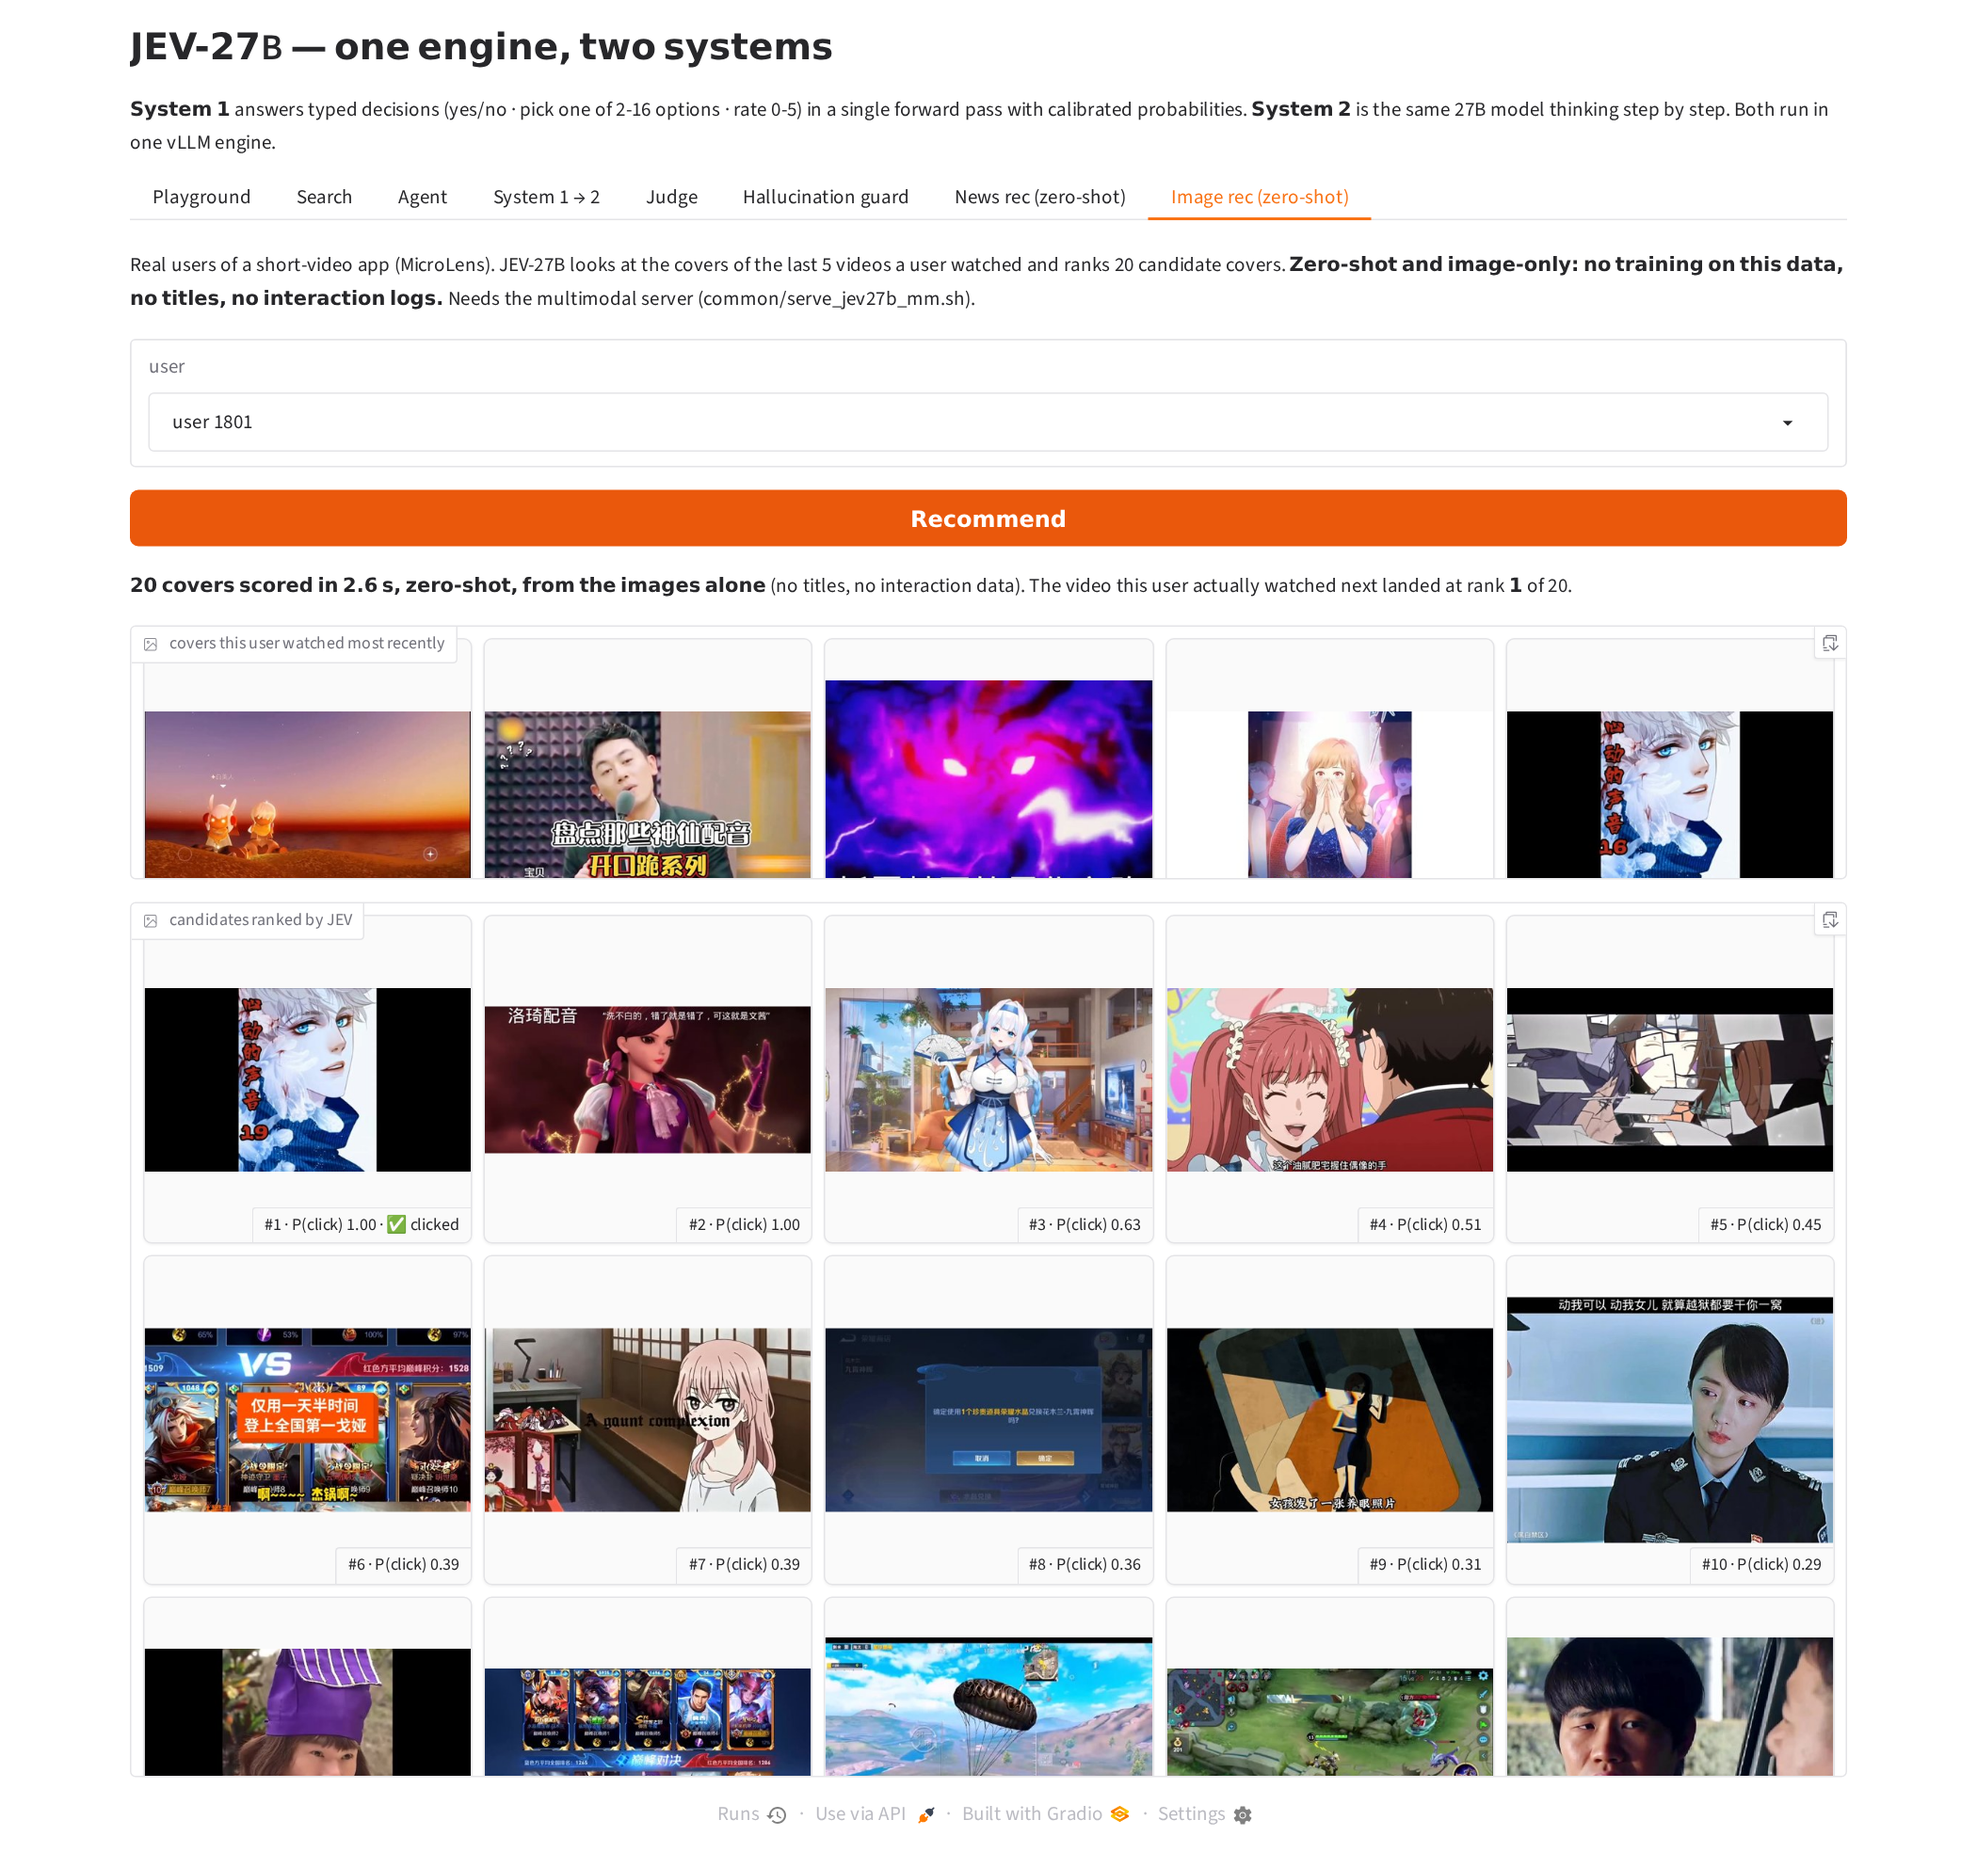
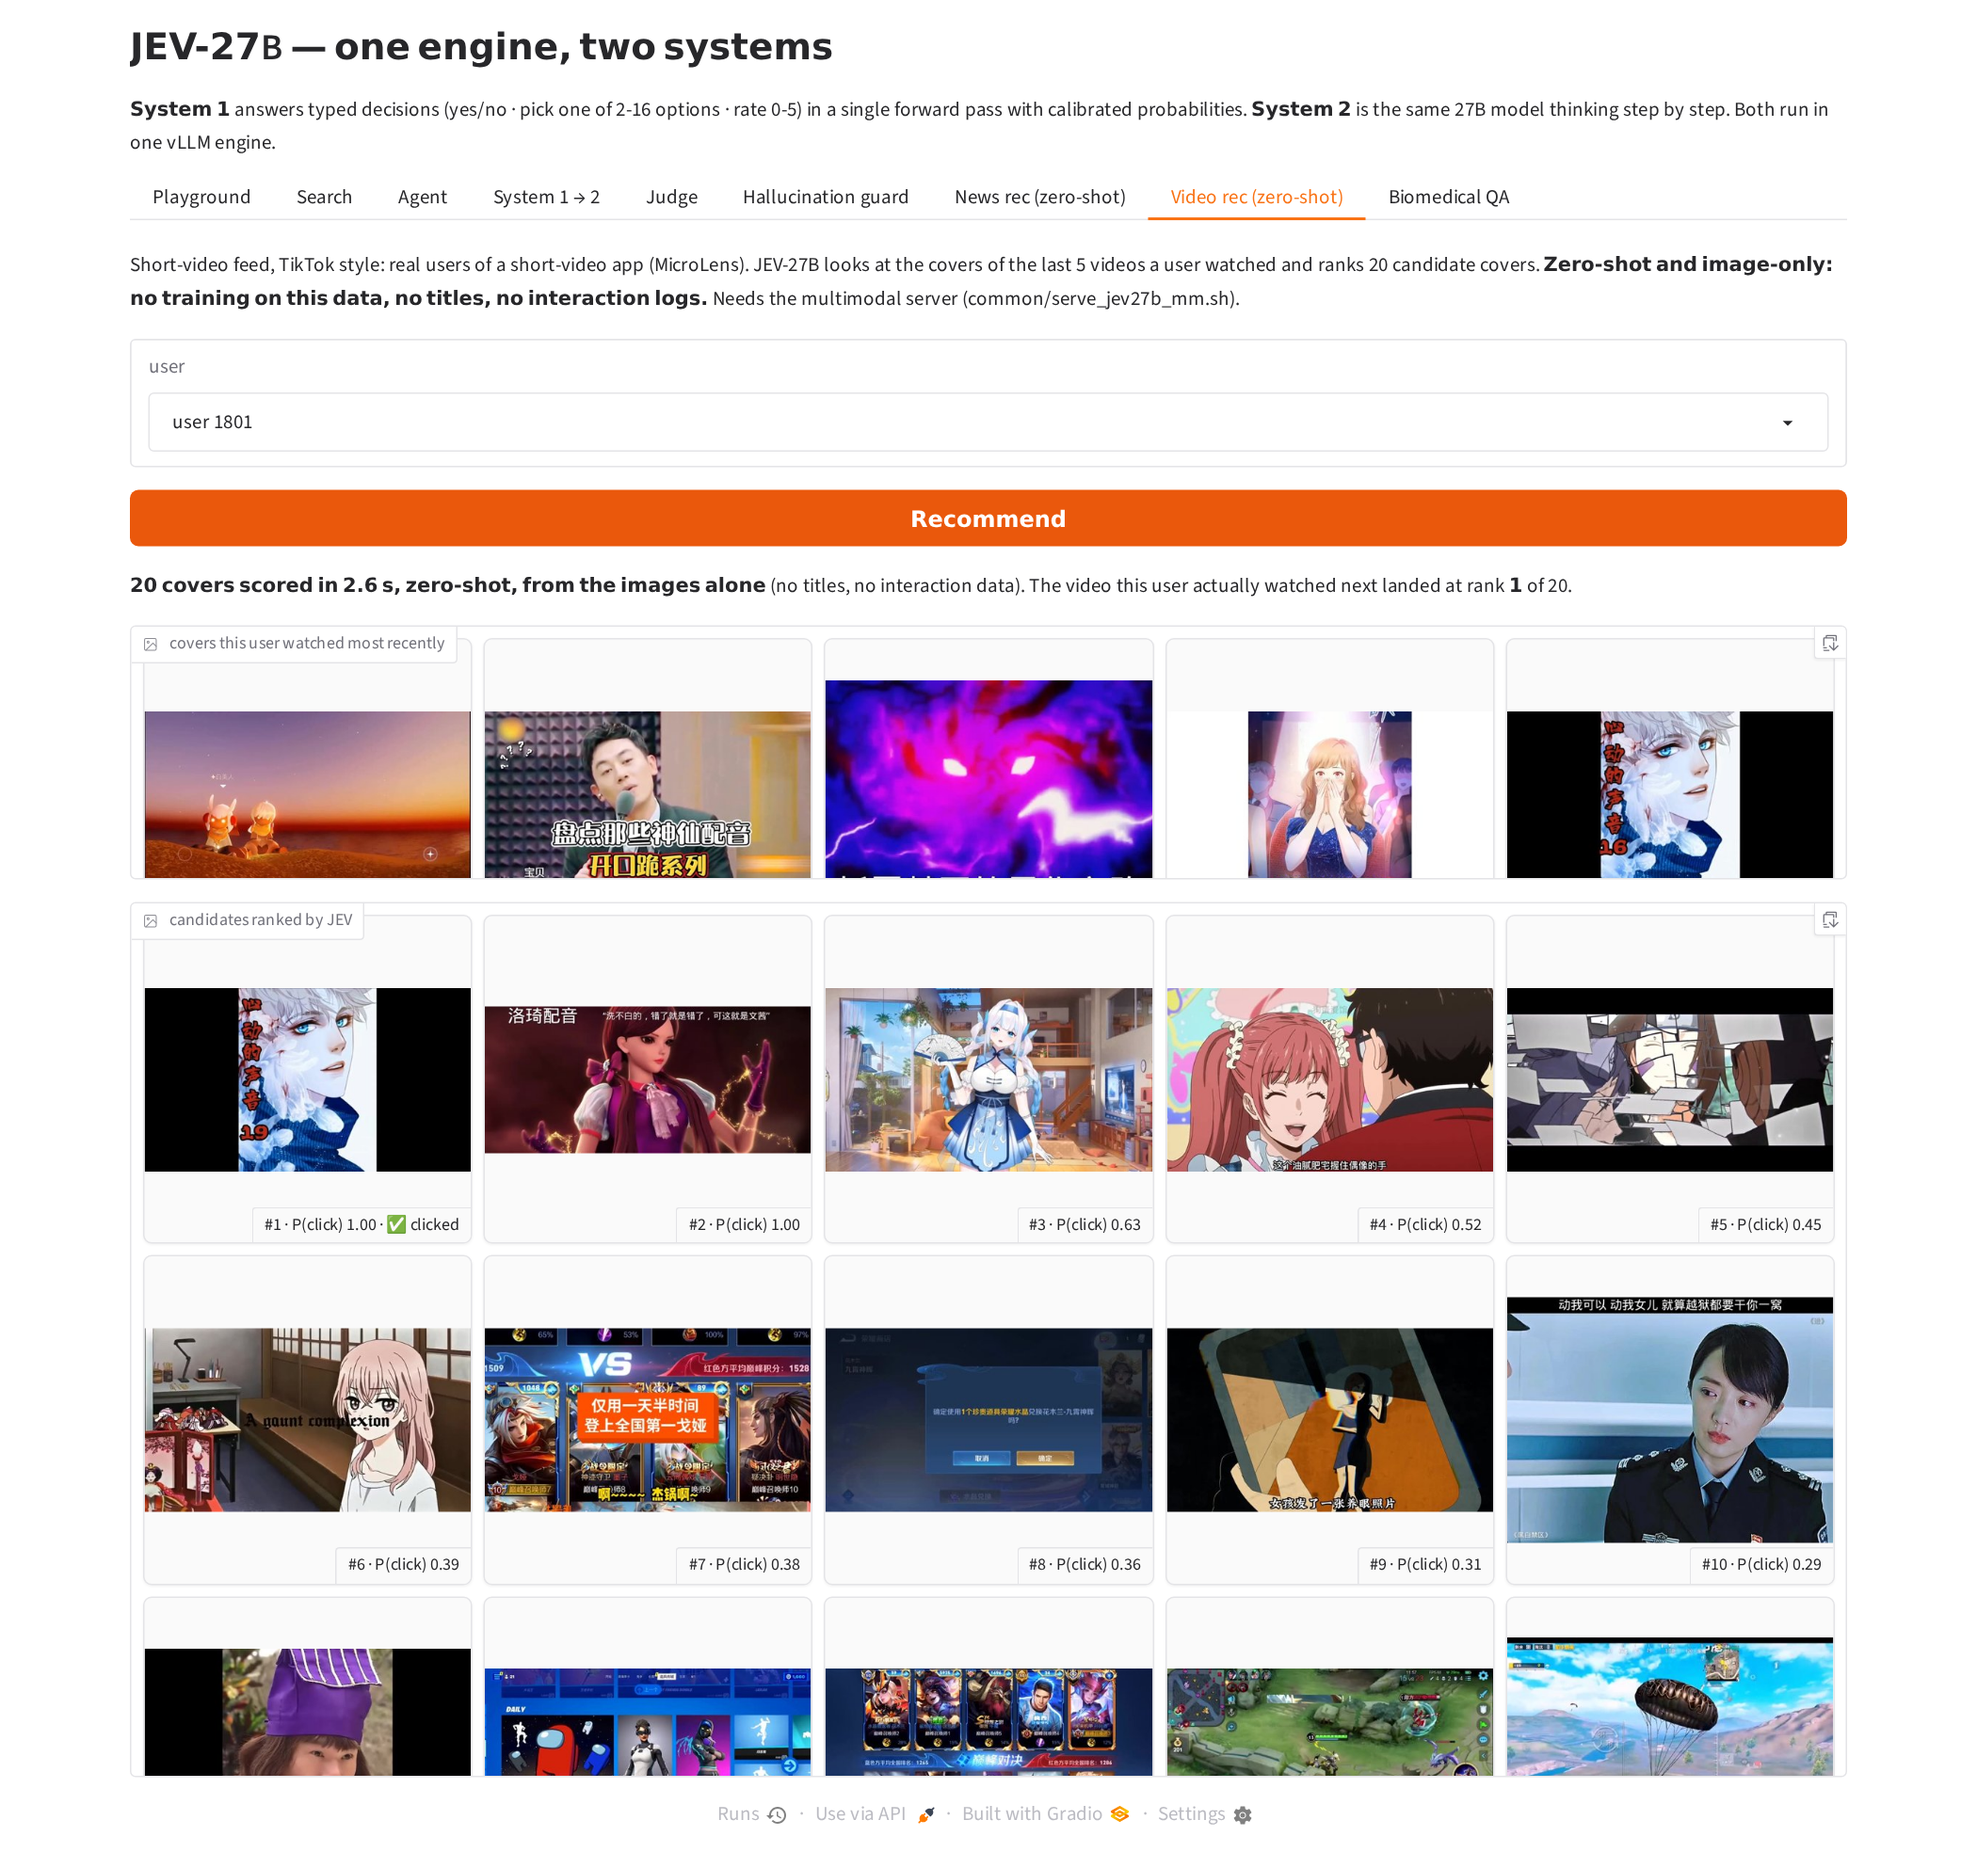
Rename demo 07 to zero-shot short-video recommendation (TikTok-style feeds)

diff --git a/app/app.py b/app/app.py
@@ -26,7 +26,7 @@ s12 = load("03-system1-to-system2", "demo")
 judge_mod = load("04-response-judge", "demo")
 guard = load("05-hallucination-guard", "demo")
 newsrec = load("06-news-recommendation", "demo")
-imgrec = load("07-image-recommendation", "demo")
+imgrec = load("07-video-recommendation", "demo")
 bioqa = load("08-biomedical-qa", "demo")
 
 INTRO = """# JEV-27B — one engine, two systems
@@ -159,9 +159,9 @@ def recommend(choice):
 
 
 
-# ---------------------------------------------------------------- zero-shot image recommendation
+# ---------------------------------------------------------------- zero-shot short-video recommendation
 def image_users():
-    res = pd.DataFrame(json.load(open(os.path.join(ROOT, "07-image-recommendation", "results.json"))))
+    res = pd.DataFrame(json.load(open(os.path.join(ROOT, "07-video-recommendation", "results.json"))))
     best = {u: int((g.jev_images > g[g.y == 1].jev_images.iloc[0]).sum()) + 1 for u, g in res.groupby("user")}
     return [f"user {u}" for u, r in sorted(best.items(), key=lambda kv: (kv[1], kv[0]))[:12]]
 
@@ -300,8 +300,8 @@ with gr.Blocks(title="JEV-27B demo") as demo:
             nt = gr.Dataframe(wrap=True, column_widths=["5%", "10%", "9%", "22%", "54%"])
         b.click(recommend, nc, [nh, nt, ninfo])
         demo.load(lambda: gr.update(choices=list(mind()["choices"]), value=list(mind()["choices"])[0]), None, nc)
-    with gr.Tab("Image rec (zero-shot)"):
-        gr.Markdown("Real users of a short-video app (MicroLens). JEV-27B looks at the covers of the last 5 videos a user watched and ranks "
+    with gr.Tab("Video rec (zero-shot)"):
+        gr.Markdown("Short-video feed, TikTok style: real users of a short-video app (MicroLens). JEV-27B looks at the covers of the last 5 videos a user watched and ranks "
                     "20 candidate covers. **Zero-shot and image-only: no training on this data, no titles, no interaction logs.** "
                     "Needs the multimodal server (common/serve_jev27b_mm.sh).")
         ic = gr.Dropdown(label="user", choices=[], allow_custom_value=False)

diff --git a/07-video-recommendation/demo.py b/07-video-recommendation/demo.py
@@ -1,4 +1,4 @@
-"""Demo 07 — zero-shot image recommendation: JEV-27B looks at video covers.
+"""Demo 07 — zero-shot short-video recommendation (TikTok-style feeds): JEV-27B looks at the video covers.
 
 JEV-27B has never been trained on MicroLens, on recommendation, or on any click data. System 1 looks at the covers of the
 last 5 videos a user watched and at one candidate cover, and returns P(this user clicks it) in one forward pass.
@@ -187,7 +187,7 @@ def summary():
     ax.text(2.5, 0.765, "zero-shot: no interaction data", ha="center", fontsize=9, color="#495057")
     ax.text(6, 0.765, "reference", ha="center", fontsize=9, color="#495057")
     ax.set_ylim(0.45, 0.79); ax.set_ylabel("AUC (per user)"); ax.tick_params(axis="x", labelsize=8)
-    ax.set_title("Zero-shot image recommendation: JEV-27B looking at covers matches collaborative filtering")
+    ax.set_title("Zero-shot short-video recommendation: JEV-27B looking at covers matches collaborative filtering")
     fig.tight_layout(); fig.savefig(os.path.join(HERE, "..", "assets", "image_recommendation.png")); plt.close(fig)
 
 

diff --git a/blog/JEV-27B-VL.md b/blog/JEV-27B-VL.md
@@ -14,7 +14,7 @@ recommender built from tens of thousands of users' behaviour.
 * **A strong multimodal judge:** shown an image, a question and two answers, it picks the better answer **78.3%** of the
   time on VL-RewardBench, above every model on its leaderboard, including the purpose-trained Skywork-VL-Reward-7B (73.3%)
   and GPT-4o (65.8%). On the newer Multimodal RewardBench 2 it judges text-to-image results within 1.3 points of GPT-5.
-* **Zero-shot image recommendation:** looking only at video covers, JEV-27B-VL ranks what a user will watch next as well as
+* **Zero-shot short-video recommendation (TikTok-style feeds):** looking only at video covers, JEV-27B-VL ranks what a user will watch next as well as
   collaborative filtering learned from **59,045 users' watch histories** (AUC 0.727 vs 0.728), with a higher top-5 hit rate
   (59% vs 49%), and without any interaction data.
 * **Pictures beat words:** covers alone score far better than titles alone (AUC 0.727 vs 0.649).
@@ -63,14 +63,16 @@ averages 63.8%, at the level of GPT-4.1; GPT-5 and Gemini 3 Pro remain ahead.
 
 ![MMRB2](https://huggingface.co/autotrust/JEV-27B-VL/resolve/main/multimodal_judge_mmrb2.png)
 
-## It sees: zero-shot image recommendation
+## It sees: zero-shot short-video recommendation
+
+A TikTok-style feed has to decide, for every user and every new clip, whether to show it, often before anyone has watched it.
 
 We tested it on [MicroLens](https://github.com/westlake-repl/MicroLens), a public dataset of real users of a short-video app
 with the original cover images. For each of 200 users we hid the video they actually watched next among 19 videos other people
 were watching at the same time, which is what a feed would have shown. JEV-27B-VL looked at the covers of the last five videos
 the user watched and at each candidate cover, and ranked the 20 candidates.
 
-![Zero-shot image recommendation on MicroLens](https://huggingface.co/autotrust/JEV-27B-VL/resolve/main/blog/image_recommendation.png)
+![Zero-shot short-video recommendation on MicroLens](https://huggingface.co/autotrust/JEV-27B-VL/resolve/main/blog/image_recommendation.png)
 
 | method | uses interaction data? | AUC | hit in top 5 |
 |---|---|---:|---:|
@@ -136,7 +138,7 @@ bash JEV-27B-VL/serve.sh        # vLLM, one GPU with 80 GB or more
 ```
 
 The [model card](https://huggingface.co/autotrust/JEV-27B-VL) has copy-paste code for image decisions and image chat. All the
-experiments above, with code and an interactive web app (image recommendation, news recommendation, judge, hallucination
+experiments above, with code and an interactive web app (short-video recommendation, news recommendation, judge, hallucination
 guard and more), are in **[JEV-27B-DEMO](https://github.com/yuhai-china/JEV-27B-DEMO)**.
 
 Image decisions are zero-shot, and the recommendation result above comes from one dataset of 200 users. We would love to hear

diff --git a/07-video-recommendation/README.md b/07-video-recommendation/README.md
@@ -1,9 +1,9 @@
-# 07 · Zero-shot image recommendation: JEV-27B looks at the covers
+# 07 · Zero-shot short-video recommendation: JEV-27B looks at the covers
 
 > **Zero-shot and multimodal.** JEV-27B has never been trained on MicroLens, on recommendation, or on any click data, and its
 > decision head was trained on text only. It looks at the cover images of the videos a user watched, and at a candidate cover.
 
-**Idea.** System 1 sees the covers of the last 5 videos a user watched plus one candidate cover, and returns **P(this user
+**Idea.** A TikTok-style short-video feed has to decide, for every user and every new clip, whether to show it. System 1 sees the covers of the last 5 videos a user watched plus one candidate cover, and returns **P(this user
 clicks it)** in one forward pass. No interaction logs, no item embeddings, no training. A new video can be recommended from its
 cover alone, before anybody has watched it.
 
@@ -11,7 +11,7 @@ cover alone, before anybody has watched it.
 For 200 random users, the last video they watched is hidden among 19 videos that other users watched within ±3 days (what a
 feed would be showing at the time). Every method ranks the 20 candidates.
 
-![image recommendation](../assets/image_recommendation.png)
+![short-video recommendation](../assets/image_recommendation.png)
 
 ## JEV looking at covers matches collaborative filtering, with zero interaction data
 
@@ -28,7 +28,8 @@ feed would be showing at the time). Every method ranks the 20 candidates.
 * **Looking beats reading.** Covers alone lift AUC from 0.649 (titles) to **0.727** (+0.078, 95% interval +0.031 to +0.126).
 * **Zero-shot equals collaborative filtering.** Same AUC as item-based CF learned from 59,045 other users' watch histories
   (difference 0.000, interval −0.041 to +0.040), and a higher hit rate in the top 5 (0.59 vs 0.49).
-* **Works for brand-new videos.** Collaborative filtering needs co-watch history; JEV only needs the cover.
+* **Solves cold start.** Collaborative filtering needs co-watch history; JEV only needs the cover, so new videos and new creators can be
+  recommended the moment they are uploaded.
 
 ## How it asks
 
@@ -55,7 +56,7 @@ python demo.py                     # downloads MicroLens-100k (~700 MB) and runs
 python demo.py summary             # tables and chart from results.json
 ```
 
-The web app has an **Image recommendation (zero-shot)** tab: pick a user, see the covers they watched, and watch JEV rank 20
+The web app has a **Video rec (zero-shot)** tab: pick a user, see the covers they watched, and watch JEV rank 20
 candidate covers, with the one they actually clicked marked.
 
 **Data licence:** MicroLens is provided by Westlake University for research. It is downloaded from the official site at run

diff --git a/README.md b/README.md
@@ -20,7 +20,7 @@ This repository shows what that is good for, with real data and measured results
 | [04](04-response-judge) | **Response judge** / reward model | RewardBench **89.9** in one forward pass, ahead of GPT-4o (86.7), Gemini 1.5 Pro (88.2), Claude 3.5 Sonnet (84.2) as judges |
 | [05](05-hallucination-guard) | **Hallucination guard** | answer only the half System 1 trusts: accuracy **71% → 96%** (System 2's own confidence: 87%) |
 | [06](06-news-recommendation) | **News recommendation, zero-shot** | never trained on MIND or click data, AUC **0.642**: beats every zero-shot baseline and LightGBM rankers trained on MIND |
-| [07](07-image-recommendation) | **Image recommendation, zero-shot** | looks only at video covers, AUC **0.727**: equals collaborative filtering learned from 59,045 users' logs |
+| [07](07-video-recommendation) | **Short-video recommendation, zero-shot** (TikTok-style feeds) | looks only at video covers, AUC **0.727**: equals collaborative filtering learned from 59,045 users' logs |
 | [08](08-biomedical-qa) | **Biomedical research questions** (PubMedQA) | **77.8%**, level with human experts (78.0%), zero-shot in one forward pass; above GPT-4's zero-shot 75.2% |
 | [09](09-multimodal-judge) | **Multimodal judge** | **78.3%** on VL-RewardBench, above every model on its 2025 leaderboard; on the 2026 MMRB2, text-to-image 69.2 (GPT-5 70.5), average at GPT-4.1 level |
 | [10](10-agent-judge) | **Agent judge** | Plan-RewardBench (ACL 2026): **73.2%**, top of the table, ahead of GPT-5 (68.5) and Gemini-3-Flash (69.1); AgentRewardBench: higher precision than every leaderboard judge at its recall |
